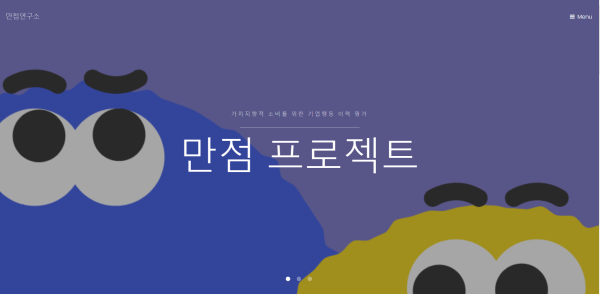
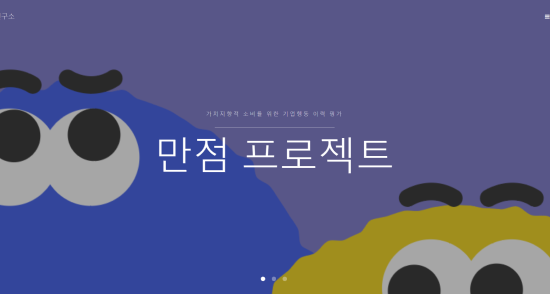
홈 화면에 레퍼런스를 추가하고 디자인을 개선합니다

diff --git a/index.html b/index.html
@@ -10,9 +10,9 @@ summary: "Be the Change"
   <header class='header' id='top'>
     <div class='text-vertical-center'>
       <h1>MartianLee's Tech Blog</h1>
-      <h3>성화의 기술 블로그</h3>
-      <br>
-      <a class='btn btn-dark btn-lg' href='https://github.com/MartianLee'>깃헙 보러가기</a>
+      <a class='btn btn-dark btn-lg' href='https://github.com/MartianLee' target='_blank'>
+        Find me in Github
+      </a>
     </div>
   </header>
   <!-- Services -->
@@ -102,19 +102,20 @@ summary: "Be the Change"
                 <h4>
                   2012, 2013 ACM-ICPC 18th
                 </h4>
+                <p>
+                  #C/C++#Problem Solving#SCCC
+                </p>
               </div>
             </div>
             <div class='col-md-6'>
               <div class='portfolio-item text-center'>
                 <div class='portfolio-image-wrapper'>
-                  <a href='https://townhall.kr/' target="_blank">
-                    <img class='img-portfolio img-responsive' src="{{ site.baseurl }}/assets/images/townhall.PNG"> 
-                  </a>
+                  <img class='img-portfolio img-responsive' src="{{ site.baseurl }}/assets/images/townhall.PNG"> 
                 </div>
                 <h4>
-                  빠띠 타운홀
+                  <a href='https://townhall.kr/' target="_blank">빠띠 타운홀</a>
                 </h4>
-                <p>빠띠에서 일하면서 기여한 프로젝트입니다. 디자인 퍼블리싱, api 개발, 배포까지 전 과정에 참여하였습니다.</p>
+                <p>실시간 투표 서비스입니다. 빠띠에서 일하면서 기여한 프로젝트입니다. #퍼블리싱#Rails#EngineYard</p>
               </div>
             </div>
           </div>
@@ -122,27 +123,56 @@ summary: "Be the Change"
             <div class='col-md-6'>
               <div class='portfolio-item text-center'>
                 <div class='portfolio-image-wrapper'>
-                  <a href='http://hearim.me' target="_blank">
-                    <img class='img-portfolio img-responsive' src="{{ site.baseurl }}/assets/images/hearim.PNG"> 
-                  </a>
+                  <img class='img-portfolio img-responsive' src="{{ site.baseurl }}/assets/images/hearim.PNG"> 
                 </div>
                 <h4>
-                  헤아림 - 내게 쓰는 칭찬 한마디
+                  <a href='http://hearim.me' target="_blank">헤아림 - 내게 쓰는 칭찬 한마디</a>
                 </h4>
-                <p>디자이너 친구와 3일동안 개발한 서비스입니다. Rails를 사용해 만들었습니다.</p>
+                <p>
+                  디자이너 친구와 3일동안 개발한 서비스입니다.
+                  나에게 칭찬을 할 수 있는 서비스입니다. #Rails#Heroku
+                </p>
               </div>
             </div>
             <div class='col-md-6'>
               <div class='portfolio-item text-center'>
                 <div class='portfolio-image-wrapper'>
-                  <a href='http://manjum.kr' target="_blank">
-                    <img class='img-portfolio img-responsive' src="{{ site.baseurl }}/assets/images/manjum.PNG"> 
-                  </a>
+                  <img class='img-portfolio img-responsive' src="{{ site.baseurl }}/assets/images/sccc.jpg"> 
                 </div>
                 <h4>
-                  만점 프로젝트
+                  <a href='http://sccc.kr' target="_blank">
+                    SCCC
+                  </a>
+                </h4>
+                <p>문제해결 소모임에서 회장/회원으로 활동하였습니다. 홈페이지 개발을 담당했습니다.</p>
+              </div>
+            </div>
+          </div>
+          <div class='row'>
+            <div class='col-md-6'>
+              <div class='portfolio-item text-center'>
+                <div class='portfolio-image-wrapper'>
+                  <img class='img-portfolio img-responsive' src="{{ site.baseurl }}/assets/images/manjum.PNG"> 
+                </div>
+                <h4>
+                  <a href='http://manjum.kr' target="_blank">
+                    만점 프로젝트
+                  </a>
                 </h4>
                 <p>뉴스 데이터를 머신러닝하여 긍정/부정, kSDG기반 가치평가 모델을 개발하였습니다.</p>
+              </div>
+            </div>
+            <div class='col-md-6'>
+              <div class='portfolio-item text-center'>
+                <div class='portfolio-image-wrapper'>
+                  <img class='img-portfolio img-responsive' src="{{ site.baseurl }}/assets/images/vezt.jpg"> 
+                </div>
+                <h4>
+                  <a href='https://vezt.co.kr' target="_blank">VEZT</a>
+                </h4>
+                <p>
+                  현재 서버/클라이언트 개발자로 일하고 있습니다. #Django#ReactNative
+                </p>
               </div>
             </div>
           </div>

diff --git a/assets/_sass/_home.scss b/assets/_sass/_home.scss
@@ -146,17 +146,32 @@ body {
         width: 100%;
         height: 100%;
         margin-top: 50px;
-        background: url($baseurl + '/assets/images/background1.jpg') no-repeat center center scroll;
+        // background: url($baseurl + '/assets/images/background1.jpg') no-repeat center center scroll;
+        background-color: mediumseagreen;
         -webkit-background-size: cover;
         -moz-background-size: cover;
         background-size: cover;
         -o-background-size: cover;
-        height: calc(60vh - 50px);
+        height: calc(45vh - 50px);
+        h1 {
+            font-family: 'Nanum Pen Script';
+            @media only screen and (min-width: 660px) {
+                font-size: 5em !important;
+            }
+            @media only screen and (max-width: 659px) {
+                font-size: 4em !important;
+            }
+        }
     }
     /* About */
     .about,
     .services {
         padding: 20px 0;
+        background-color: mediumseagreen;
+        color: white;
+        a {
+            color: white !important;
+        }
     }
     /* Services */
     .service-item {
@@ -193,6 +208,8 @@ body {
         &:hover {
             opacity: 0.8;
         }
+    }
+    .contents {
     }
     /* Call to Action */
     .call-to-action {

diff --git a/assets/_sass/_base.scss b/assets/_sass/_base.scss
@@ -2,6 +2,8 @@
 * Base Styles
 * ========================================================================== */
 
+@import url(http://fonts.googleapis.com/earlyaccess/nanumgothiccoding.css);
+
 .center-wrapper {
     max-width: $break-point;
     margin: 0 auto;
@@ -16,7 +18,7 @@
 }
 
 body {
-    font: normal 17px/1.5 'PT Serif', "Helvetica Neue", "Helvetica", Arial, sans-serif;
+    font: normal 17px/1.5 "Nanum Gothic Coding", 'PT Serif', "Helvetica Neue", "Helvetica", Arial, sans-serif !important;
     width: 100%;
     height: 100%;
     background: #fdfdfd;
@@ -42,7 +44,7 @@ h3,
 h4,
 h5,
 h6 {
-    font-family: 'Nanum Gothic Coding', 'Roboto Condensed', sans-serif;
+    font-family: "Nanum Gothic Coding", 'Roboto Condensed', sans-serif !important;
     font-weight: bold;
     a:link,
     a:hover,

diff --git a/_includes/head.html b/_includes/head.html
@@ -22,8 +22,7 @@
   <link rel="stylesheet" href="{{ "/assets/css/main.css" | relative_url }}">
   
   <!-- 웹 폰트 설정 -->
-  <link rel="stylesheet" 
-  href="https://fonts.googleapis.com/earlyaccess/nanumgothic.css">
+  <link rel="stylesheet" href="https://fonts.googleapis.com/earlyaccess/nanumgothic.css">
 
   <!-- Bootstrap & Fonts-->
   <link href="https://maxcdn.bootstrapcdn.com/font-awesome/4.5.0/css/font-awesome.min.css" rel="stylesheet" >
